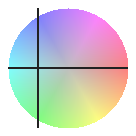
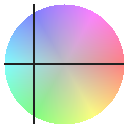
Tweak padding and sizing

Changed region(s): [[0.0312, 0.0312, 0.9688, 0.9688]]

diff --git a/dialog/color_picker_test.go b/dialog/color_picker_test.go
@@ -17,9 +17,9 @@ func Test_colorGreyscalePicker_Layout(t *testing.T) {
 	color := newColorGreyscalePicker(nil)
 
 	window := test.NewWindow(fyne.NewContainerWithLayout(layout.NewCenterLayout(), color))
-	window.Resize(color.MinSize().Max(fyne.NewSize(100, 50)))
+	window.Resize(color.MinSize().Max(fyne.NewSize(250, 50)))
 
-	test.AssertImageMatches(t, "color/greyscale_picker_layout.png", window.Canvas().Capture())
+	test.AssertImageMatches(t, "color/picker_layout_greyscale.png", window.Canvas().Capture())
 
 	window.Close()
 }
@@ -32,9 +32,9 @@ func Test_colorBasicPicker_Layout(t *testing.T) {
 	color := newColorBasicPicker(nil)
 
 	window := test.NewWindow(fyne.NewContainerWithLayout(layout.NewCenterLayout(), color))
-	window.Resize(color.MinSize().Max(fyne.NewSize(100, 50)))
+	window.Resize(color.MinSize().Max(fyne.NewSize(250, 50)))
 
-	test.AssertImageMatches(t, "color/basic_picker_layout.png", window.Canvas().Capture())
+	test.AssertImageMatches(t, "color/picker_layout_basic.png", window.Canvas().Capture())
 
 	window.Close()
 }
@@ -50,9 +50,9 @@ func Test_colorRecentPicker_Layout(t *testing.T) {
 	color := newColorRecentPicker(nil)
 
 	window := test.NewWindow(fyne.NewContainerWithLayout(layout.NewCenterLayout(), color))
-	window.Resize(color.MinSize().Max(fyne.NewSize(100, 50)))
+	window.Resize(color.MinSize().Max(fyne.NewSize(250, 50)))
 
-	test.AssertImageMatches(t, "color/recent_picker_layout.png", window.Canvas().Capture())
+	test.AssertImageMatches(t, "color/picker_layout_recent.png", window.Canvas().Capture())
 
 	window.Close()
 }
@@ -69,7 +69,7 @@ func Test_colorAdvancedPicker_Layout(t *testing.T) {
 	window := test.NewWindow(fyne.NewContainerWithLayout(layout.NewCenterLayout(), color))
 	window.Resize(color.MinSize().Max(fyne.NewSize(200, 200)))
 
-	test.AssertImageMatches(t, "color/advanced_picker_layout.png", window.Canvas().Capture())
+	test.AssertImageMatches(t, "color/picker_layout_advanced.png", window.Canvas().Capture())
 
 	window.Close()
 }

diff --git a/dialog/color_wheel.go b/dialog/color_wheel.go
@@ -171,25 +171,19 @@ type colorWheelRenderer struct {
 }
 
 func (r *colorWheelRenderer) Layout(size fyne.Size) {
-	p := theme.Padding()
-	w := size.Width - 2*p
-	h := size.Height - 2*p
 	if f := r.area.selection; f != nil {
-		x, y := f(w, h)
-		r.x.Position1 = fyne.NewPos(p, y+p)
-		r.x.Position2 = fyne.NewPos(w+p, y+p)
-		r.y.Position1 = fyne.NewPos(x+p, p)
-		r.y.Position2 = fyne.NewPos(x+p, h+p)
+		x, y := f(size.Width, size.Height)
+		r.x.Position1 = fyne.NewPos(0, y)
+		r.x.Position2 = fyne.NewPos(size.Width, y)
+		r.y.Position1 = fyne.NewPos(x, 0)
+		r.y.Position2 = fyne.NewPos(x, size.Height)
 	}
-	r.raster.Move(fyne.NewPos(p, p))
-	r.raster.Resize(fyne.NewSize(w, h))
+	r.raster.Move(fyne.NewPos(0, 0))
+	r.raster.Resize(size)
 }
 
-func (r *colorWheelRenderer) MinSize() (min fyne.Size) {
-	min = r.raster.MinSize()
-	min = min.Max(fyne.NewSize(128, 128))
-	min = min.Add(fyne.NewSize(2*theme.Padding(), 2*theme.Padding()))
-	return
+func (r *colorWheelRenderer) MinSize() fyne.Size {
+	return r.raster.MinSize().Max(fyne.NewSize(128, 128))
 }
 
 func (r *colorWheelRenderer) Refresh() {

diff --git a/dialog/color_channel.go b/dialog/color_channel.go
@@ -8,7 +8,6 @@ import (
 	"fyne.io/fyne/canvas"
 	internalwidget "fyne.io/fyne/internal/widget"
 	"fyne.io/fyne/layout"
-	"fyne.io/fyne/theme"
 	"fyne.io/fyne/widget"
 )
 
@@ -108,14 +107,12 @@ type colorChannelRenderer struct {
 }
 
 func (r *colorChannelRenderer) Layout(size fyne.Size) {
-	r.contents.Move(fyne.NewPos(theme.Padding(), theme.Padding()))
-	r.contents.Resize(fyne.NewSize(size.Width-2*theme.Padding(), size.Height-2*theme.Padding()))
+	r.contents.Move(fyne.NewPos(0, 0))
+	r.contents.Resize(fyne.NewSize(size.Width, size.Height))
 }
 
-func (r *colorChannelRenderer) MinSize() (min fyne.Size) {
-	min = r.contents.MinSize()
-	min = min.Add(fyne.NewSize(2*theme.Padding(), 2*theme.Padding()))
-	return
+func (r *colorChannelRenderer) MinSize() fyne.Size {
+	return r.contents.MinSize()
 }
 
 func (r *colorChannelRenderer) Refresh() {

diff --git a/dialog/color_button.go b/dialog/color_button.go
@@ -100,15 +100,12 @@ func (r *colorButtonRenderer) BackgroundColor() color.Color {
 }
 
 func (r *colorButtonRenderer) Layout(size fyne.Size) {
-	r.rectangle.Move(fyne.NewPos(theme.Padding(), theme.Padding()))
-	r.rectangle.Resize(fyne.NewSize(size.Width-2*theme.Padding(), size.Height-2*theme.Padding()))
+	r.rectangle.Move(fyne.NewPos(0, 0))
+	r.rectangle.Resize(size)
 }
 
-func (r *colorButtonRenderer) MinSize() (min fyne.Size) {
-	min = r.rectangle.MinSize()
-	min = min.Max(fyne.NewSize(32, 32))
-	min = min.Add(fyne.NewSize(2*theme.Padding(), 2*theme.Padding()))
-	return
+func (r *colorButtonRenderer) MinSize() fyne.Size {
+	return r.rectangle.MinSize().Max(fyne.NewSize(theme.IconInlineSize(), theme.IconInlineSize()))
 }
 
 func (r *colorButtonRenderer) Refresh() {
